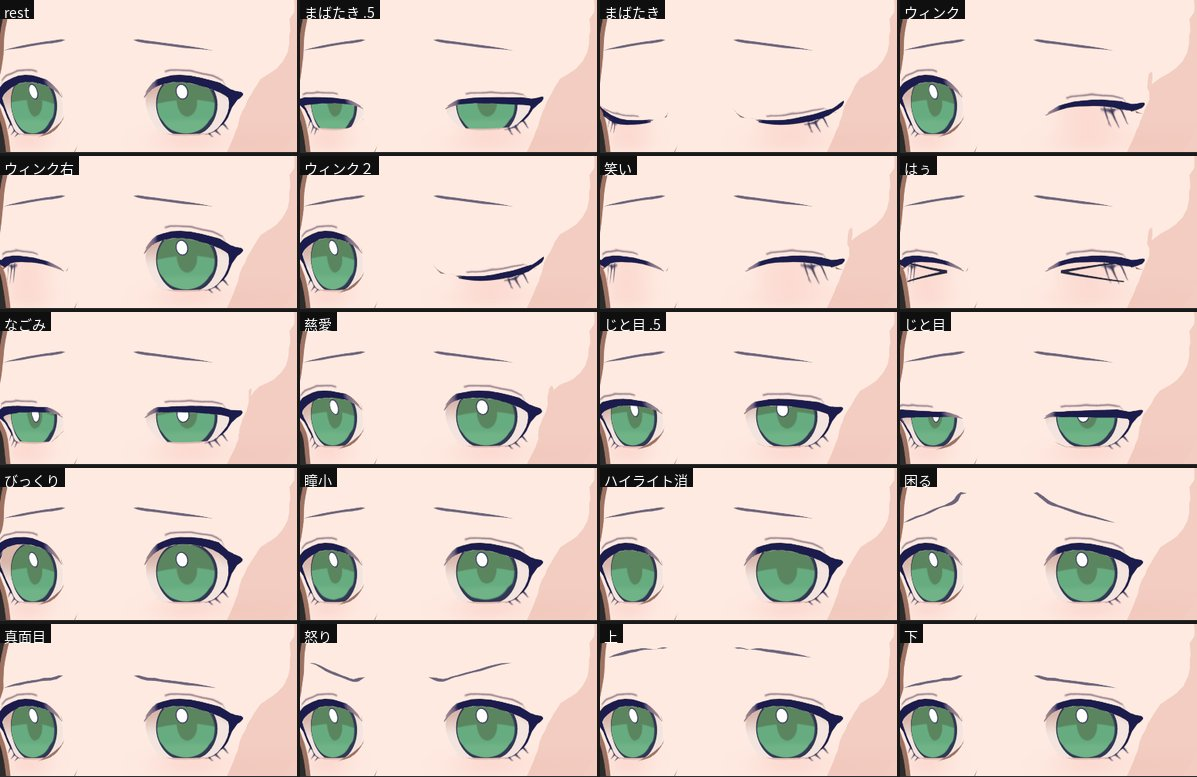
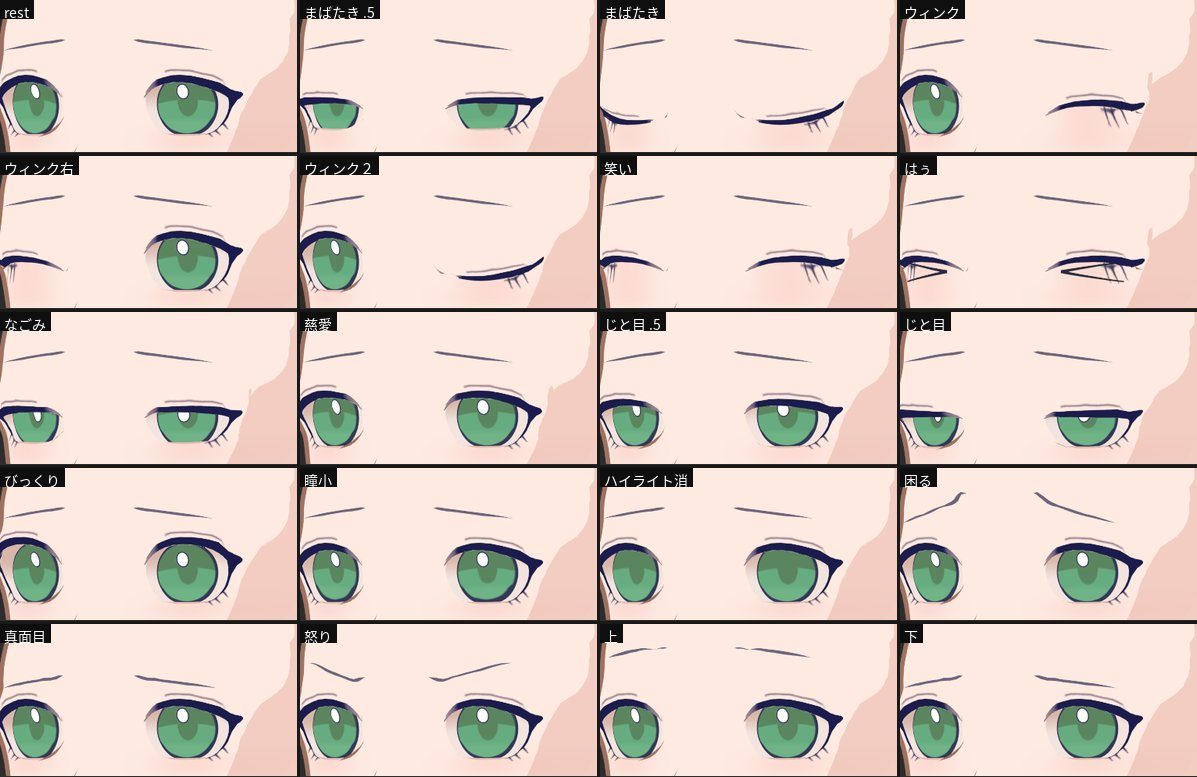
Head: the iris dish stays at her depth (1.2 mm nearer the lids took it through the closed lids at the gaze limits: 2.0 mm in the motion eye rows); docs from the final head

diff --git a/levi/parts/head.py b/levi/parts/head.py
@@ -42,8 +42,8 @@ Eyes (from hers, recoloured to Levi's design in the atlas, all opaque):
 * head_eye_white_L / _R: her concave white cup, Levi's skin-toned sclera, shaded
   under the upper lid; rides 頭, takes the lid morphs.
 * head_eye_L / _R: her concave iris dish, its rings resampled 3x (a round rim
-  in close-ups), squashed round in its own plane (its bottom on the lower lid)
-  and brought 1.2 mm nearer the lids; Levi's green iris (a crisp darker crescent
+  in close-ups), squashed round in its own plane (its bottom on the lower lid);
+  Levi's green iris (a crisp darker crescent
   under the lid with the pupil in it, a thin navy rim); turns with 目.L / 目.R about
   obj['levi_eye_pivot'], her 目 bone (head-contract option A: the whole
   turn, not her 目先's 30 %).
@@ -1971,9 +1971,6 @@ def _part_keys(W, name, pos_al, used, extra=None, post=None):
     return keys
 
 
-IRIS_FORWARD = 0.0012                 # m the iris dish (and its highlight) comes forward, nearer the lids:
-#                                       the lid edge stood 5.8 mm in front of it, so from above the lid hid
-#                                       the iris top at once (el 30: iris h/w 0.644 -> 0.653)
 IRIS_RING_MULT = 3                    # the iris dish's rings resampled to this many times her 20 segments
 #                                       (the crisp rim showed the outer ring's straight edges in close-ups)
 
@@ -2225,9 +2222,6 @@ def build_eyes(col, W, mat, verts, holes, face_polys=None, face_all_keys=None):
         a_sq = (z_lid - behind - sq * zq.min()) / (1.0 - sq)
         Pw = Pw + ez * ((sq - 1.0) * (zq - a_sq))[:, None]
         centre, n, ex, ez, rx, rz = _dish_frame(Pw)
-        if IRIS_FORWARD:
-            Pw = Pw + n * IRIS_FORWARD
-            centre, n, ex, ez, rx, rz = _dish_frame(Pw)
         q = Pw - centre
         inplane = q - n * (q @ n)[:, None]
         r = np.linalg.norm(inplane / np.array([1.0, 1.0, 1.0]), axis=1) / max(rx, rz)
